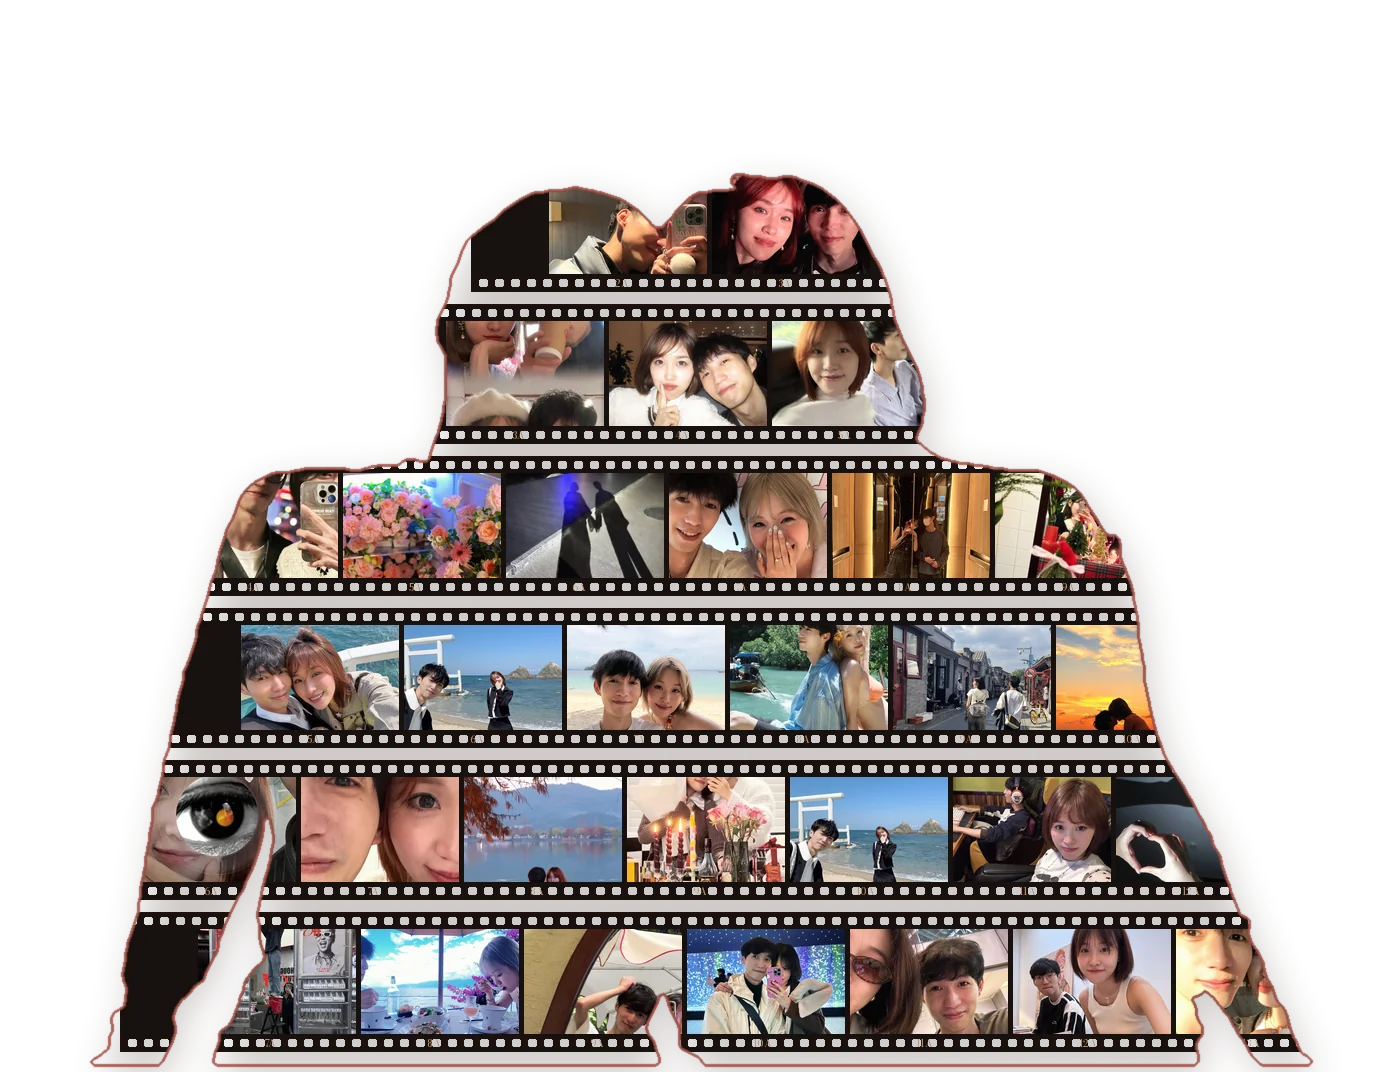
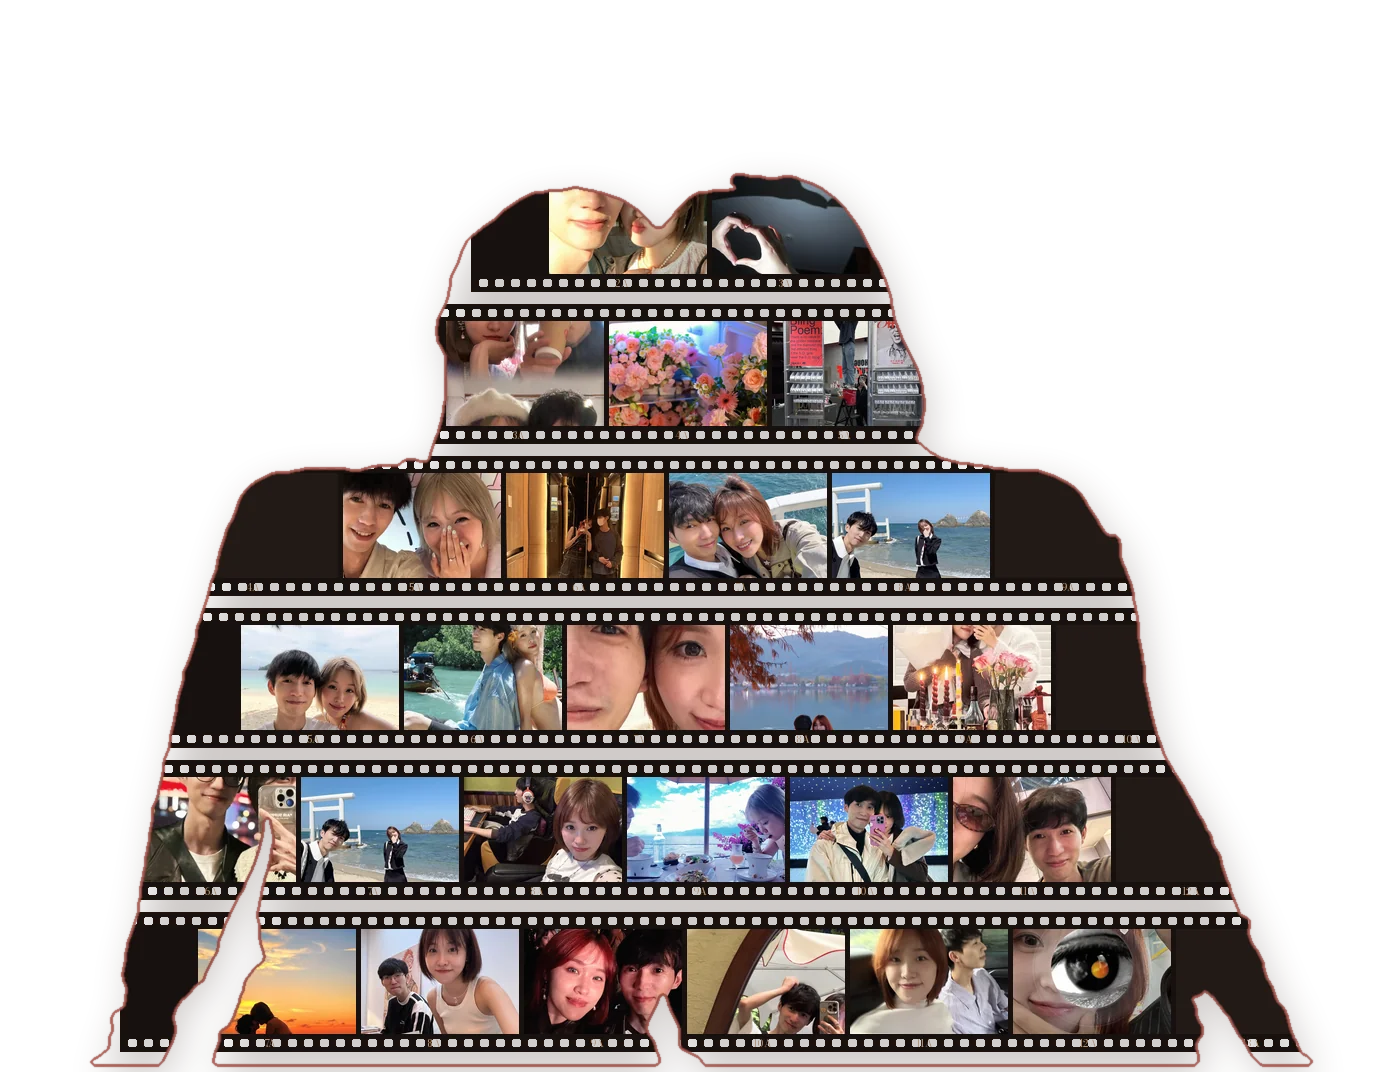
v64: 2023 captions (1–3); duplicate shots of the 2023 roll removed elsewhere (n1, chongqing-2nd, m0, dali-first-shadows from map stops/city pages/record), silhouette rebuilt on the same grid without n1/chongqing-2nd/m0/dali-first-shadows/n3; landscape roll photos open whole in the viewer

diff --git a/content.js b/content.js
@@ -100,11 +100,11 @@ window.CONTENT = {
   // 竖长的大头贴：加 tall: true
   // 一站想放多张照片：把 photo 换成 photos: ["photos/a.webp", "photos/b.webp"]（点照片切换）
   stops: [
-    { city: "chongqing", photos: ["photos/n1.webp", "photos/chongqing-2nd.webp", "photos/chongqing-fridge-flowers.webp"], photoNotes: ["2022 · 重庆", "第二次来重庆 · 2023", "2023.08"], memory: "当时我在想，这个人又矮又呆，还晕头转向的让我饿着，差评负分！再也不来重庆了哼", note: "初见" },
+    { city: "chongqing", photos: ["photos/chongqing-fridge-flowers.webp"], photoNotes: ["2023.08"], memory: "当时我在想，这个人又矮又呆，还晕头转向的让我饿着，差评负分！再也不来重庆了哼", note: "初见" },
     { city: "beijing",   photo: "photos/beijing.webp", tall: true, memory: "过年邀请你来我家。一起滑冰、逛胡同，去了很多很多地方。", note: "过年" },
     { city: "chengdu",   photo: null, memory: "待填写" },
     { city: "dongguan",  photo: "photos/dongguan.webp", memory: "陪我出差。" },
-    { city: "dali",      photo: "photos/dali-first-shadows.webp", memory: "2023.05 · 第一次一起旅行。我发烧了一整趟，你守了我一整趟。「等求婚的时候再来一次吧。」", note: "2023.05" },
+    { city: "dali",      photo: null, memory: "2023.05 · 第一次一起旅行。我发烧了一整趟，你守了我一整趟。「等求婚的时候再来一次吧。」", note: "2023.05" },
     { city: "hangzhou",  photo: null, scansDate: "2025.05.20", memory: "2024 年我先来了杭州，2025 年五一你也搬了过来。异地结束的第一个 520。", note: "我们的家" },
     { city: "shanghai",  photo: null, memory: "待填写" },
     { city: "fukuoka",   photo: "photos/fukuoka-torii.webp", memory: "待填写" },   // 白色鸟居、夫妇岩，海边（替换原 m13）
@@ -120,11 +120,8 @@ window.CONTENT = {
   // 地图上额外的一条虚线：从第 5 站连到第 15 站
   promise: { from: 5, to: 15, label: "约定" },
 
-  // 地图城市页里原来跟着 2023 胶卷出现的照片（胶卷换图后单独留在这里，地图保持原样；不出现在胶卷里）
+  // 地图城市页里原来跟着 2023 胶卷出现的照片（胶卷换图后单独留在这里；跟 2023 胶卷同一张的已撤掉：n1、chongqing-2nd、m0、dali-first-shadows 只在胶卷里）
   mapPhotos: [
-    { city: "chongqing", photo: "photos/chongqing-2nd.webp", date: "2023" },
-    { city: "beijing",   photo: "photos/m0.webp", date: "2023.05.01" },   // 胡同
-    { city: "dali",      photo: "photos/dali-first-shadows.webp", date: "2023.05" },
     { city: "chongqing", photo: "photos/chongqing-fridge-flowers.webp", date: "2023.08" },
     { city: "chongqing", photo: "photos/n2.webp", date: "2023.10.30" },
   ],
@@ -138,9 +135,9 @@ window.CONTENT = {
   chapters: [
     { year: "2023", layout: "feature", title: "待填写", thumb: "photos/thumb-2023.webp", items: [   // thumb: only the FOUR ROLLS picker
       // 2023 这一卷只放这 7 张（只出现在这卷里，别处不用）；只有日期，点开也只显示日期（dateOnly）
-      { title: "", date: "2023.01.01", text: "", photo: "photos/r23-0101.webp", dateOnly: true },
-      { title: "", date: "2023.01.27", text: "", photo: "photos/r23-0127.webp", dateOnly: true },
-      { title: "", date: "2023.03.26", text: "", photo: "photos/r23-0326.webp", dateOnly: true },
+      { title: "", date: "2023.01.01", text: "隔着屏幕说了90天晚安，今天你终于站在了我面前。", photo: "photos/r23-0101.webp", dateOnly: true },
+      { title: "", date: "2023.01.27", text: "从山城到京城，南方小土豆差点没扛住北京的零下温度。", photo: "photos/r23-0127.webp", dateOnly: true },
+      { title: "", date: "2023.03.26", text: "第二次飞往山城。异地的日子里，连一个普通的周末都不舍得错过。", photo: "photos/r23-0326.webp", dateOnly: true },
       { title: "", date: "2023.05.02", text: "", photo: "photos/r23-0502.webp", dateOnly: true },
       { title: "", date: "2023.05.12", text: "", photo: "photos/r23-0512.webp", dateOnly: true },
       { title: "", date: "2023.10.14", text: "", photo: "photos/r23-1014.webp", dateOnly: true },
@@ -232,7 +229,7 @@ window.CONTENT = {
     // 隐藏页最后一张「未显影」的拍立得：婚礼（日期定了再填，例如 "2027.05.20"）
     wedding: null,   // 婚礼拍立得已撤：不想在信前面放一张「待解锁」
     // Aimer《Polaris》：一张像 View-Master 转盘的纸质唱片，盘边 12 格照片，慢慢转（结尾这里允许和前面重复；不放游戏截图）
-    record: ["photos/n1.webp", "photos/dali-first-shadows.webp", "photos/chongqing-fridge-flowers.webp", "photos/n2.webp", "photos/n0-hardware.webp", "photos/m9.webp",
+    record: ["photos/chongqing-fridge-flowers.webp", "photos/n2.webp", "photos/n0-hardware.webp", "photos/m9.webp",
       "photos/m12.webp", "photos/fukuoka-torii.webp", "photos/krabi.webp", "photos/tokyo.webp", "photos/dali-proposal.webp", "photos/sunset-kiss.webp"],
     // 唱片上方的一段文字（原文照录；每一行拆成几段，只用来决定手机上在哪里换行，拼起来就是原文）
     reelNotes: [

diff --git a/app.js b/app.js
@@ -523,7 +523,7 @@ function openPlace(i, from) { const st = $$("#story .st"); if (!st[i]) return;
 // the place card: only the city (name + coordinates) and every photo we have of it, laid out as one editorial page —
 // big and small prints, a little off the grid. a paragraph of the city's own words can follow later (places[].copy).
 // the 2023 roll's own photos (r23-*) are shown only inside that roll: never on the map or anywhere else
-const ROLL_ONLY = /^photos\/r23-/;
+const ROLL_ONLY = /^photos\/(r23-|n1\.webp|chongqing-2nd\.webp|m0\.webp|dali-first-shadows\.webp|n3\.webp)/;   // + the older files of the same shots
 const cityPhotos = id => { const out = [], got = new Set(), add = (src, date) => { if (!src || got.has(src) || /hangzhou-(ears|eyes)/.test(src) || ROLL_ONLY.test(src)) return; got.add(src); out.push({ src, date }); };
   S.forEach(s => { if (s.city !== id) return; (s.scans && s.scans.length ? s.scans : stopPhotos(s)).forEach((src, k) => add(src, (s.photoNotes && s.photoNotes[k]) || s.note || "")); });
   (C.mapPhotos || []).forEach(m => { if (m.city === id) add(m.photo, m.date); });   // the photos the 2023 roll used to bring here (same place, same order)
@@ -843,6 +843,9 @@ addEventListener("resize", () => { const v = V.el; if (!v || !v.classList.contai
   Object.assign(im.style, { left: f.left + "px", top: f.top + "px", width: f.width + "px", height: f.height + "px" }); });
 function fitRect(item) { const [w, h] = SIZES[item.src] || [1200, 1600], box = V.el || document.documentElement;
   const vw = box.clientWidth || innerWidth, vh = box.clientHeight || innerHeight;   // the viewer's real box (not 100vw)
+  // a wide (landscape) roll photo opens whole: full width, centred on the dark backdrop, kept clear of the words at the foot
+  if (item.full && w > h) { const fw = Math.min(vw, vh * .62 * w / h), fh = fw * h / w, top = Math.max(0, Math.min((vh - fh) / 2, vh - 190 - fh));
+    return { left: (vw - fw) / 2, top, width: fw, height: fh, cover: 1 }; }
   if (item.full) return { left: 0, top: 0, width: vw, height: vh, cover: 1 };   // full-bleed: exactly the screen, cropped by object-fit
   const k = Math.min(vw * .9 / w, vh * .7 / h);
   const fw = w * k, fh = h * k; return { left: (vw - fw) / 2, top: (vh - fh) / 2 - vh * .02, width: fw, height: fh, cover: Math.max(vw / fw, vh / fh) }; }

diff --git a/index.html b/index.html
@@ -17,7 +17,7 @@
   window.__ldKill=setTimeout(function(){d.classList.remove("ld","ld-show");window.__ldDone()},4500); // safety net if app.js never runs
 }catch(e){}})(document.documentElement)</script>
 <script>(function(d){if(!window.matchMedia||matchMedia("(prefers-reduced-motion: reduce)").matches)return;d.classList.add("motion-pending","tag-wait");setTimeout(function(){d.classList.remove("motion-pending")},2500);setTimeout(function(){d.classList.add("tag-fade");d.classList.remove("tag-wait")},8000)})(document.documentElement)</script>
-<link rel="stylesheet" href="style.css?v=63">
+<link rel="stylesheet" href="style.css?v=64">
 </head>
 <body>
 <div class="grain" aria-hidden="true"></div>
@@ -191,9 +191,9 @@
   </div>
 </div>
 
-<script src="content.js?v=63"></script>
-<script src="map-data.js?v=63"></script>
-<script src="photos/sizes.js?v=63"></script>
-<script src="app.js?v=63"></script>
+<script src="content.js?v=64"></script>
+<script src="map-data.js?v=64"></script>
+<script src="photos/sizes.js?v=64"></script>
+<script src="app.js?v=64"></script>
 </body>
 </html>
